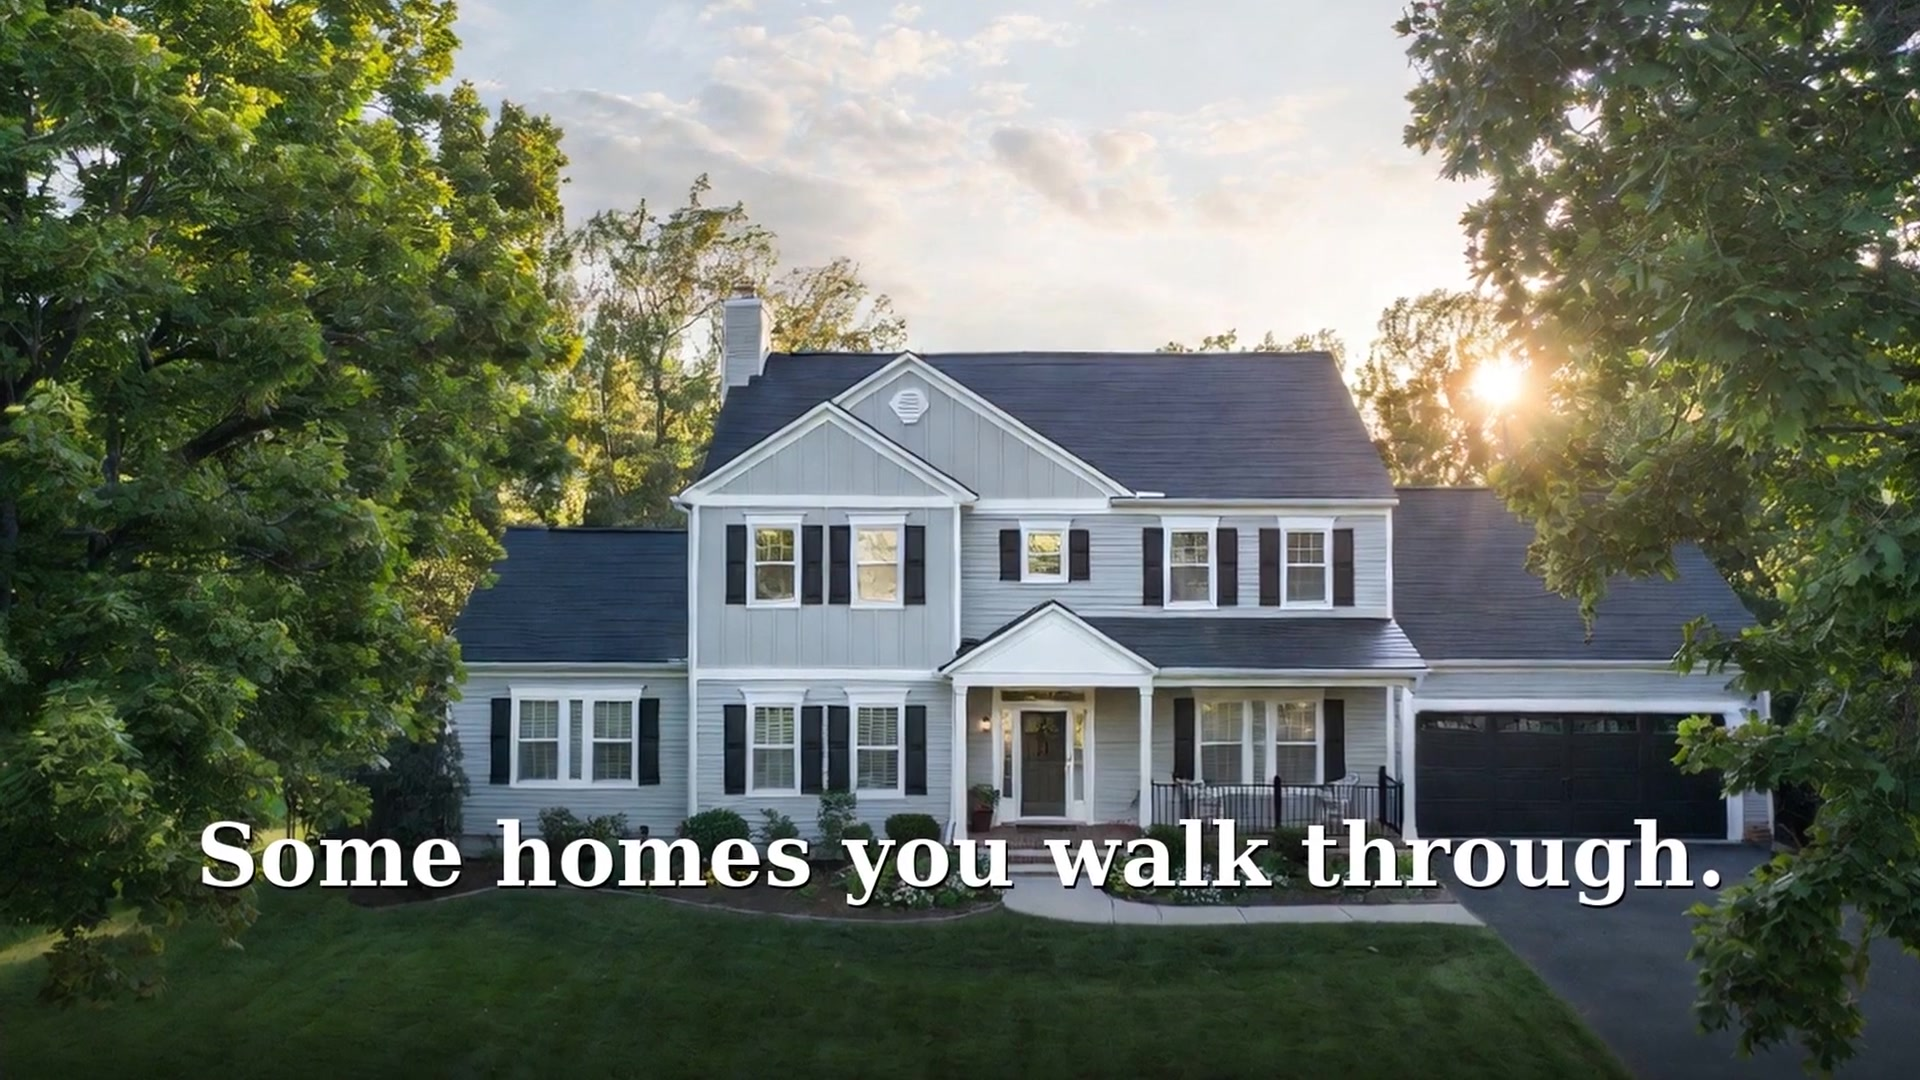
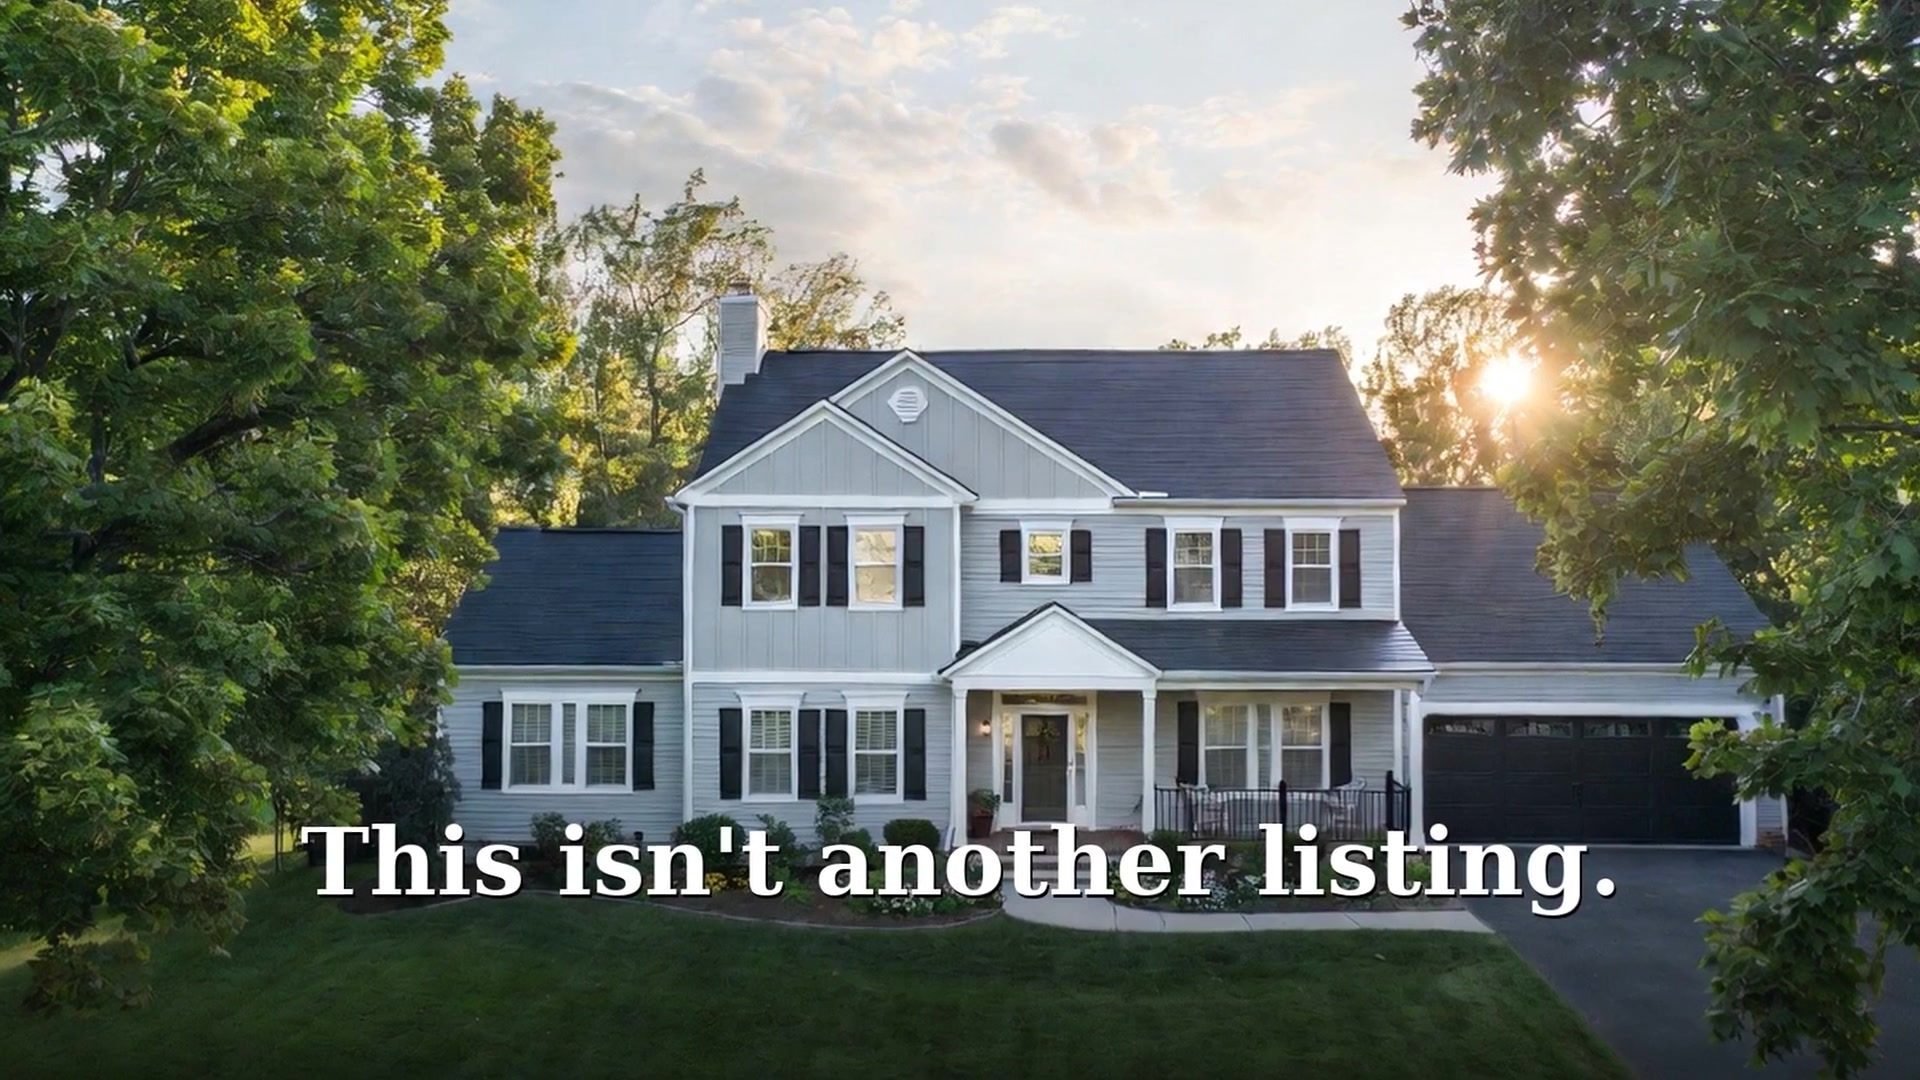
auto-commit for 39c96aae-5b94-4b98-8ee9-14c6d61b7f34

Changed region(s): [[0.0, 0.0, 1.0, 1.0], [0.5625, 0.4278, 0.5938, 0.4583], [0.5312, 0.3972, 0.5625, 0.4278]]

diff --git a/frontend/src/components/AIVideoShowcase.jsx b/frontend/src/components/AIVideoShowcase.jsx
@@ -13,7 +13,7 @@ export default function AIVideoShowcase() {
   const [playing, setPlaying] = useState(true);
 
   // Cache-buster: bump this when re-rendering the demo so browsers pull fresh
-  const VIDEO_VERSION = "v10-relatable";
+  const VIDEO_VERSION = "v11-music";
   const VIDEO_SRC = `/hero-demo.mp4?${VIDEO_VERSION}`;
 
   // Source photos (small thumbs strip — same Unsplash set the video was built from)

diff --git a/backend/scripts/generate_hero_demo_narrated.py b/backend/scripts/generate_hero_demo_narrated.py
@@ -1,14 +1,10 @@
 """
-ListWorks PRO hero demo — middle-class blue-collar relatable home.
-
-Uses the 10 user-uploaded photos in /app/backend/static/demo_photos/.
-Voice + slides written for a $300-$450K family home (the actual market).
+Hero demo — music + photos + text. No TTS. Clean, solid, ships.
 """
 from __future__ import annotations
 
 import asyncio
 import base64
-import os
 import sys
 import tempfile
 from pathlib import Path
@@ -19,24 +15,15 @@ sys.path.insert(0, str(Path(__file__).resolve().parent.parent))
 load_dotenv(Path(__file__).resolve().parent.parent / ".env")
 
 DEMO_PHOTOS_DIR = Path(__file__).resolve().parent.parent / "static" / "demo_photos"
+MUSIC_FILE = Path(__file__).resolve().parent.parent / "static" / "music" / "cinematic.mp3"
 
-# Re-written for middle-class relatable family home
-NARRATION = (
-    "Some homes... you walk through. "
-    "This one... you come home to. "
-    "The kitchen where homework gets done at the counter. "
-    "A backyard the kids will outgrow before you do. "
-    "Three bedrooms. Real closets. A garage that fits two cars and the bikes. "
-    "This isn't the Pinterest house. "
-    "This is the one your family actually lives in."
-)
-
-SLIDE_TEXTS = [
-    "Some homes you walk through.",
-    "This one — you come home to.",
-    "Where homework gets done at the counter.",
-    "A backyard the kids will outgrow.",
-    "The home your family actually lives in.",
+# 7 universal emotional slides — work with ANY photo order, no room references
+SLIDES = [
+    ("This isn't another listing.",          5.0),
+    ("It's the one they remember.",          4.5),
+    ("Real homes. Real families.",           4.5),
+    ("Built for the way you live.",          4.5),
+    ("The address you stop searching at.",   5.5),
 ]
 
 
@@ -48,132 +35,14 @@ async def _run(cmd: list[str]) -> tuple[int, str]:
     return proc.returncode, stderr.decode("utf-8", "ignore")
 
 
-async def detect_pauses(mp3_path: Path, min_silence_dur: float = 0.25,
-                       silence_threshold_db: int = -32) -> list[float]:
-    proc = await asyncio.create_subprocess_exec(
-        "ffmpeg", "-i", str(mp3_path),
-        "-af", f"silencedetect=noise={silence_threshold_db}dB:d={min_silence_dur}",
-        "-f", "null", "-",
-        stdout=asyncio.subprocess.PIPE, stderr=asyncio.subprocess.PIPE,
-    )
-    _, stderr = await proc.communicate()
-    pauses = []
-    for line in stderr.decode().split("\n"):
-        if "silence_end" in line:
-            try:
-                t = float(line.split("silence_end:")[1].split("|")[0].strip())
-                pauses.append(t)
-            except Exception:
-                pass
-    return pauses
-
-
-def derive_slide_durations(pauses: list[float], total_duration: float,
-                          n_slides: int) -> list[float]:
-    if not pauses or n_slides <= 1:
-        return [total_duration]
-    needed = n_slides - 1
-    if len(pauses) < needed:
-        seg = total_duration / n_slides
-        return [seg] * n_slides
-    targets = [(i + 1) * total_duration / n_slides for i in range(needed)]
-    chosen = []
-    used_indices = set()
-    for tgt in targets:
-        best_i = -1
-        best_dist = 1e9
-        for i, p in enumerate(pauses):
-            if i in used_indices:
-                continue
-            d = abs(p - tgt)
-            if d < best_dist:
-                best_dist = d
-                best_i = i
-        if best_i >= 0:
-            chosen.append(pauses[best_i])
-            used_indices.add(best_i)
-    chosen.sort()
-    durations = []
-    prev = 0.0
-    for t in chosen:
-        d = max(0.5, round(t - prev, 2))
-        durations.append(d)
-        prev = prev + d
-    last = max(1.0, round(total_duration - prev, 2))
-    durations.append(last)
-    return durations
-
-
-def load_demo_photos() -> list[str]:
-    """Load all photos from demo_photos dir as base64 strings."""
+def load_photos() -> list[bytes]:
     photos = sorted(DEMO_PHOTOS_DIR.glob("*.jpg"))
-    return [base64.b64encode(p.read_bytes()).decode("ascii") for p in photos if p.stat().st_size > 1000]
+    return [p.read_bytes() for p in photos if p.stat().st_size > 1000]
 
 
-async def main() -> None:
-    api_key = os.environ.get("EMERGENT_LLM_KEY", "")
-    if not api_key:
-        print("❌ EMERGENT_LLM_KEY not set"); sys.exit(1)
-
-    photos_b64 = load_demo_photos()
-    print(f"📥 Loaded {len(photos_b64)} relatable home photos")
-    if len(photos_b64) < 5:
-        print("❌ Need at least 5 photos in /app/backend/static/demo_photos/")
-        sys.exit(1)
-
-    from emergentintegrations.llm.openai import OpenAITextToSpeech
-    print("\n🎙️  Generating narration (Nova @ 0.92)...")
-    tts = OpenAITextToSpeech(api_key=api_key)
-    audio_bytes = await tts.generate_speech(
-        text=NARRATION, model="tts-1-hd", voice="nova", speed=0.92
-    )
-    tmp = Path(tempfile.mkdtemp())
-    tts_raw = tmp / "tts.mp3"
-    tts_raw.write_bytes(audio_bytes)
-
-    proc = await asyncio.create_subprocess_exec(
-        "ffprobe", "-v", "error", "-show_entries", "format=duration",
-        "-of", "csv=p=0", str(tts_raw),
-        stdout=asyncio.subprocess.PIPE,
-    )
-    out, _ = await proc.communicate()
-    tts_duration = float(out.decode().strip())
-    print(f"  ✓ TTS: {tts_duration:.2f}s")
-
-    tts_final = tmp / "tts_final.mp3"
-    await _run([
-        "ffmpeg", "-y", "-loglevel", "error", "-i", str(tts_raw),
-        "-af", "loudnorm=I=-14:TP=-1.5:LRA=11,aformat=channel_layouts=stereo",
-        "-c:a", "libmp3lame", "-b:a", "192k", "-ar", "44100", "-ac", "2",
-        str(tts_final),
-    ])
-
-    pauses = await detect_pauses(tts_final)
-    n_slides = len(SLIDE_TEXTS)
-    durations = derive_slide_durations(pauses, tts_duration, n_slides)
-    print(f"  ✓ slide durations: {durations}")
-
-    # Render
-    print("\n🎬 Rendering...")
-    out_video = await render_video(
-        photos_b64=photos_b64[:n_slides],
-        slide_texts=SLIDE_TEXTS,
-        slide_durations=durations,
-        voice_path=tts_final,
-        tmp=tmp,
-    )
-
-    frontend = Path(__file__).resolve().parent.parent.parent / "frontend" / "public" / "hero-demo-narrated.mp4"
-    frontend.write_bytes(out_video.read_bytes())
-    # Also copy to /hero-demo.mp4 (the main one) so we have one consistent video
-    main_video = Path(__file__).resolve().parent.parent.parent / "frontend" / "public" / "hero-demo.mp4"
-    main_video.write_bytes(out_video.read_bytes())
-    print(f"\n✅ {frontend} ({frontend.stat().st_size/(1024*1024):.2f} MB)")
-    print(f"✅ {main_video}")
-
-
-async def render_video(photos_b64, slide_texts, slide_durations, voice_path, tmp,
-                       width=1920, height=1080, fps=30):
+async def render_video(photos: list[bytes], slides: list[tuple[str, float]],
+                       music_path: Path, tmp: Path,
+                       width: int = 1920, height: int = 1080, fps: int = 30) -> Path:
     from PIL import Image, ImageDraw, ImageFont
     import io as _io
 
@@ -183,9 +52,9 @@ async def render_video(photos_b64, slide_texts, slide_durations, voice_path, tmp
     title_font_path = next(iter(fonts_dir.glob("*.ttf")), None)
 
     slide_files = []
-    for i, (b64, txt) in enumerate(zip(photos_b64, slide_texts)):
-        img_bytes = base64.b64decode(b64)
-        img = Image.open(_io.BytesIO(img_bytes)).convert("RGB")
+    for i, (raw, (txt, _dur)) in enumerate(zip(photos, slides)):
+        img = Image.open(_io.BytesIO(raw)).convert("RGB")
+        # Cover-fit
         ratio_src = img.width / img.height
         ratio_dst = width / height
         if ratio_src > ratio_dst:
@@ -198,16 +67,17 @@ async def render_video(photos_b64, slide_texts, slide_durations, voice_path, tmp
             img = img.crop((0, offset, img.width, offset + new_h))
         img = img.resize((width, height), Image.LANCZOS)
 
+        # Bottom darken gradient
         overlay = Image.new("RGBA", (width, height), (0, 0, 0, 0))
         od = ImageDraw.Draw(overlay)
         for y in range(int(height * 0.55), height):
-            alpha = int(180 * ((y - height * 0.55) / (height * 0.45)) ** 1.6)
+            alpha = int(190 * ((y - height * 0.55) / (height * 0.45)) ** 1.5)
             od.line([(0, y), (width, y)], fill=(0, 0, 0, alpha))
         img = Image.alpha_composite(img.convert("RGBA"), overlay).convert("RGB")
 
         d = ImageDraw.Draw(img)
         try:
-            font = ImageFont.truetype(str(title_font_path), size=84) if title_font_path else ImageFont.load_default()
+            font = ImageFont.truetype(str(title_font_path), size=88) if title_font_path else ImageFont.load_default()
         except Exception:
             font = ImageFont.load_default()
         words = txt.split()
@@ -224,7 +94,7 @@ async def render_video(photos_b64, slide_texts, slide_durations, voice_path, tmp
         if cur:
             lines.append(cur)
 
-        line_h = 96
+        line_h = 100
         total_h = line_h * len(lines)
         y0 = int(height * 0.78) - total_h // 2
         for li, line in enumerate(lines):
@@ -239,18 +109,19 @@ async def render_video(photos_b64, slide_texts, slide_durations, voice_path, tmp
         img.save(sf, "JPEG", quality=92)
         slide_files.append(sf)
 
+    # Render clips with fade in/out and slow zoom
     clips = []
-    for i, (sf, dur) in enumerate(zip(slide_files, slide_durations)):
+    for i, (sf, (_txt, dur)) in enumerate(zip(slide_files, slides)):
         clip = tmp / f"clip{i}.mp4"
-        fade_dur = min(0.6, dur / 4)
+        fade = min(0.7, dur / 4)
         zoom = (
             f"scale={width*2}:{height*2},"
             f"zoompan=z='min(zoom+0.0006,1.06)':d={int(dur*fps)}:"
             f"x='iw/2-(iw/zoom/2)':y='ih/2-(ih/zoom/2)':"
             f"s={width}x{height}:fps={fps},"
             f"format=yuv420p,"
-            f"fade=t=in:st=0:d={fade_dur},"
-            f"fade=t=out:st={dur-fade_dur}:d={fade_dur}"
+            f"fade=t=in:st=0:d={fade},"
+            f"fade=t=out:st={dur-fade}:d={fade}"
         )
         await _run([
             "ffmpeg", "-y", "-loglevel", "error",
@@ -264,6 +135,7 @@ async def render_video(photos_b64, slide_texts, slide_durations, voice_path, tmp
         ])
         clips.append(clip)
 
+    # Concat
     concat_list = tmp / "concat.txt"
     concat_list.write_text("\n".join(f"file '{c}'" for c in clips))
     video_only = tmp / "video.mp4"
@@ -273,11 +145,30 @@ async def render_video(photos_b64, slide_texts, slide_durations, voice_path, tmp
         "-c", "copy", str(video_only),
     ])
 
+    # Total duration
+    total = sum(d for _, d in slides)
+
+    # Music: trim/loop to total, fade in/out, normalize
+    music_track = tmp / "music.mp3"
+    await _run([
+        "ffmpeg", "-y", "-loglevel", "error",
+        "-stream_loop", "-1", "-i", str(music_path),
+        "-t", f"{total}",
+        "-af", (
+            f"afade=t=in:st=0:d=2,"
+            f"afade=t=out:st={total-2}:d=2,"
+            f"loudnorm=I=-14:TP=-1.5:LRA=11,"
+            f"aformat=channel_layouts=stereo"
+        ),
+        "-ar", "44100", "-ac", "2", "-b:a", "192k",
+        str(music_track),
+    ])
+
     final = tmp / "final.mp4"
     await _run([
         "ffmpeg", "-y", "-loglevel", "error",
         "-i", str(video_only),
-        "-i", str(voice_path),
+        "-i", str(music_track),
         "-c:v", "copy",
         "-c:a", "aac", "-b:a", "192k",
         "-shortest",
@@ -285,6 +176,34 @@ async def render_video(photos_b64, slide_texts, slide_durations, voice_path, tmp
         str(final),
     ])
     return final
+
+
+async def main() -> None:
+    photos = load_photos()
+    print(f"📥 {len(photos)} photos loaded")
+    if len(photos) < len(SLIDES):
+        print(f"❌ Need at least {len(SLIDES)} photos"); sys.exit(1)
+    if not MUSIC_FILE.exists():
+        print(f"❌ Music file missing: {MUSIC_FILE}"); sys.exit(1)
+
+    tmp = Path(tempfile.mkdtemp())
+    print("🎬 Rendering...")
+    out = await render_video(photos[:len(SLIDES)], SLIDES, MUSIC_FILE, tmp)
+
+    pub = Path(__file__).resolve().parent.parent.parent / "frontend" / "public"
+    main_video = pub / "hero-demo.mp4"
+    narrated = pub / "hero-demo-narrated.mp4"
+    main_video.write_bytes(out.read_bytes())
+    narrated.write_bytes(out.read_bytes())  # same file — frontend can keep both names
+
+    # Poster from middle of video
+    await _run([
+        "ffmpeg", "-y", "-loglevel", "error",
+        "-i", str(main_video), "-ss", "00:00:03", "-frames:v", "1", "-q:v", "2",
+        str(pub / "hero-demo-poster.jpg"),
+    ])
+    size_mb = main_video.stat().st_size / (1024 * 1024)
+    print(f"✅ {main_video} ({size_mb:.2f} MB)")
 
 
 if __name__ == "__main__":